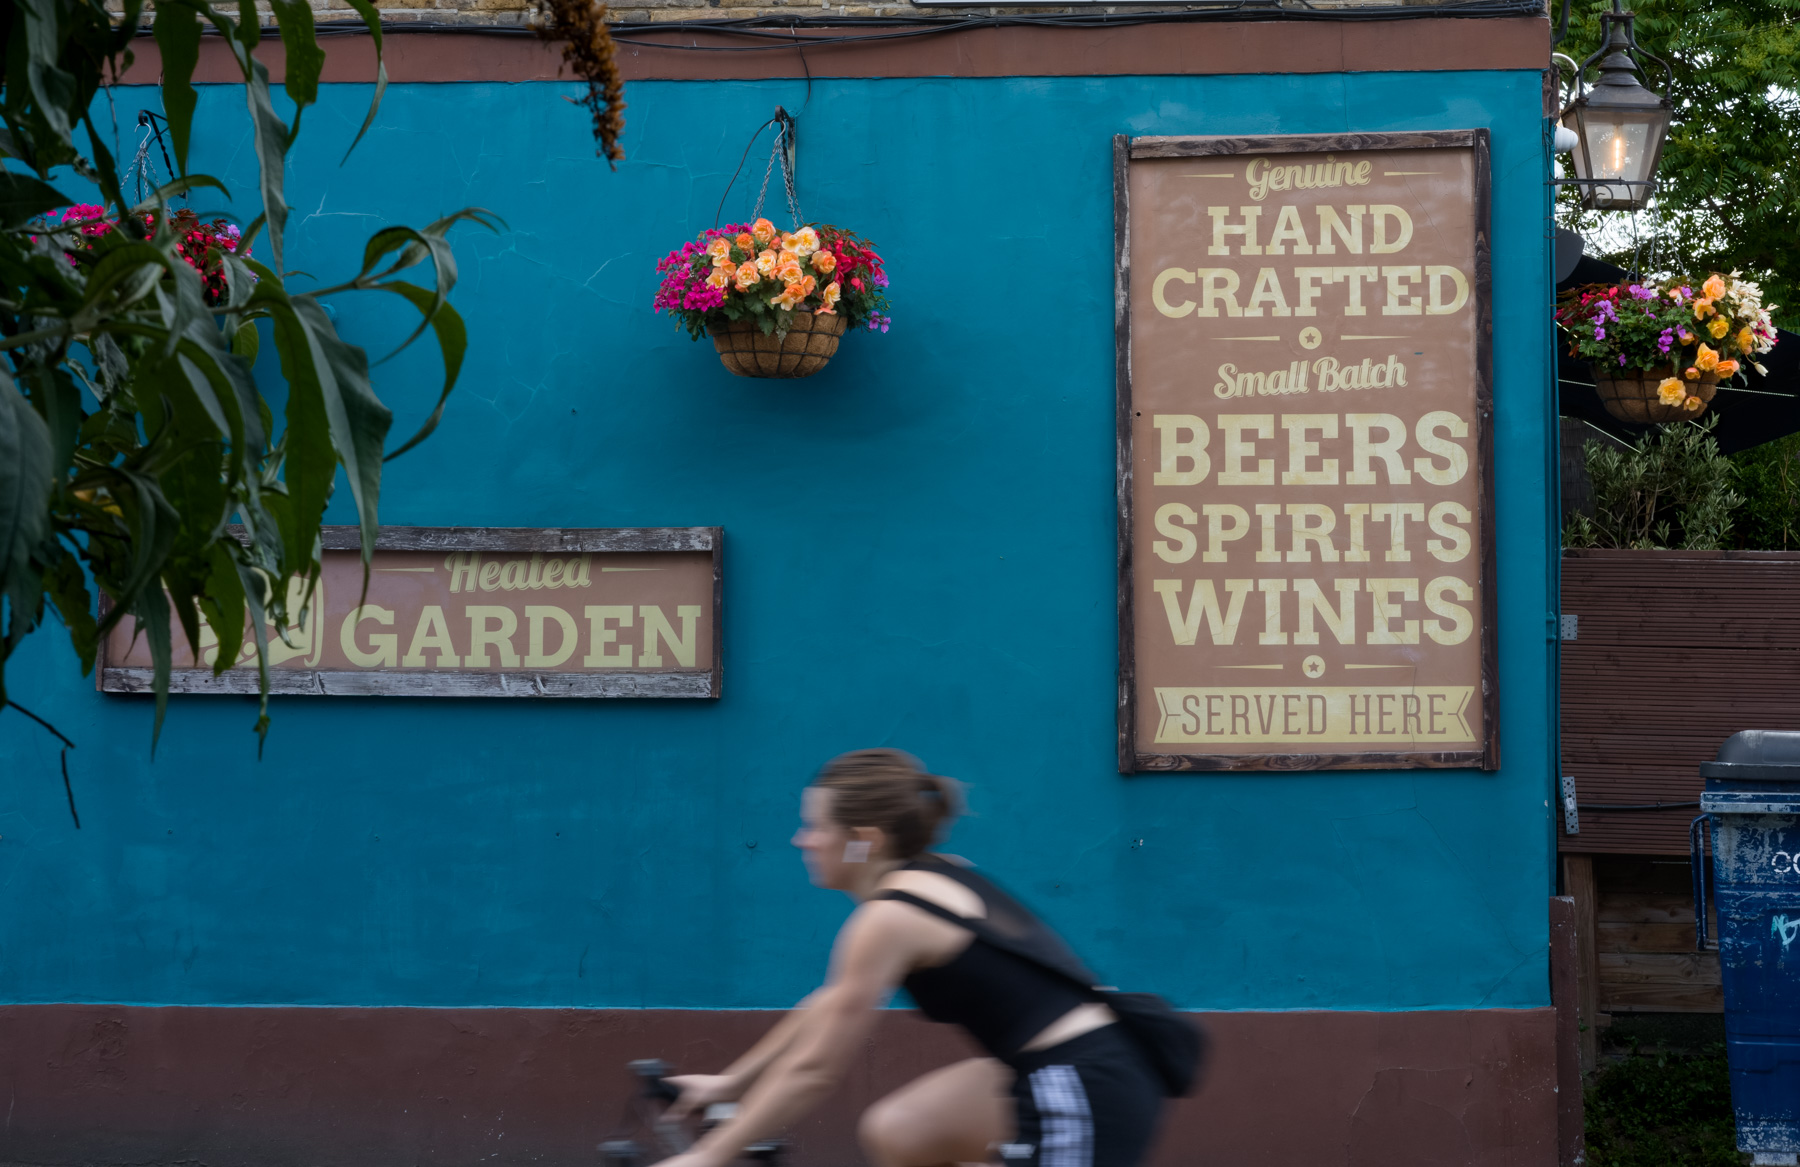
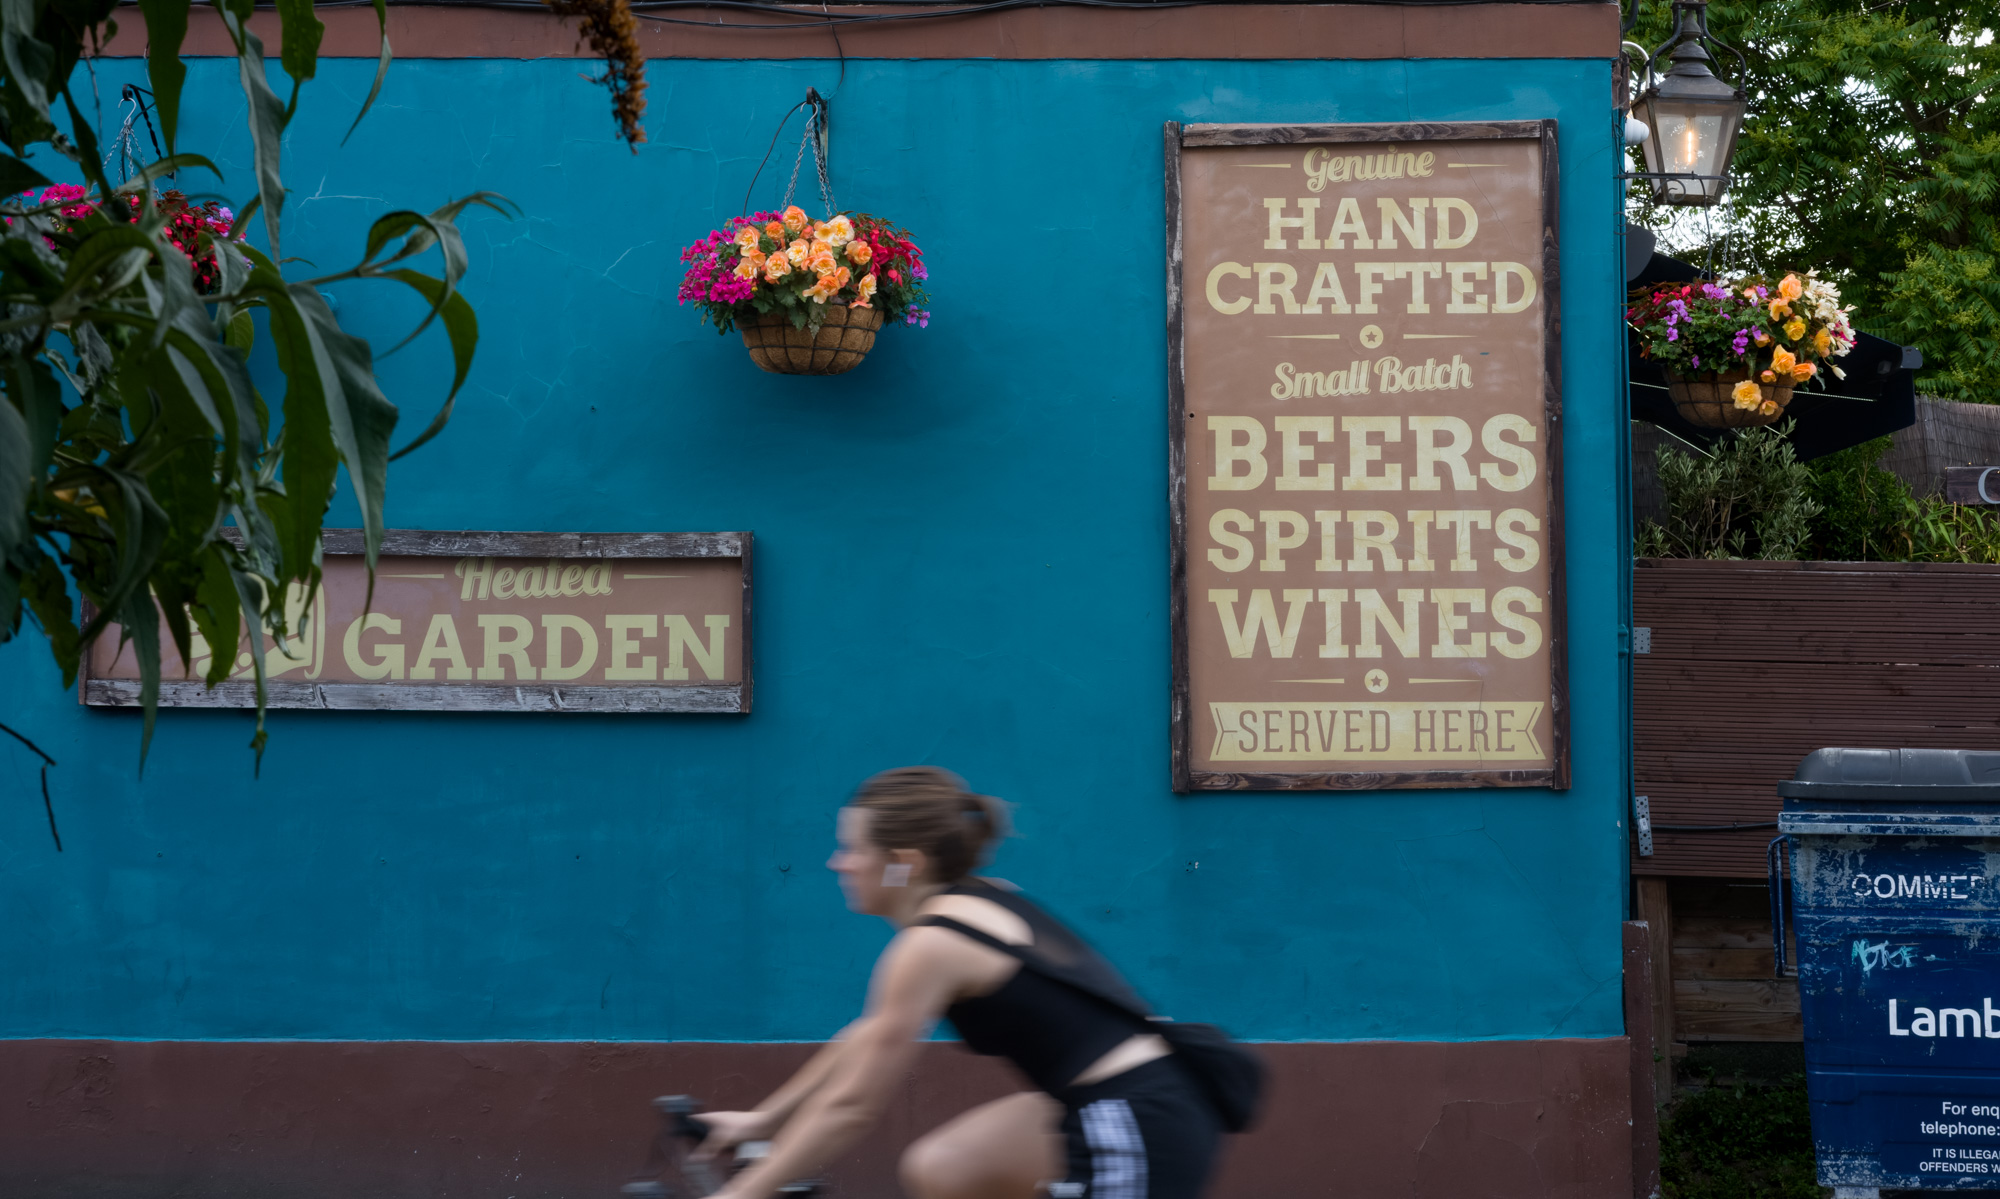
updated images

diff --git a/assets/js/gallery-data.js b/assets/js/gallery-data.js
@@ -138,7 +138,8 @@ const galleryItems = [
     height: 1725,
     alt: "Dog Watching the Sea",
     title: "Dog Watching the Sea",
-    description: "Silhouette of a dog gazing out through a window at the ocean view beyond.",
+    description:
+      "Silhouette of a dog gazing out through a window at the ocean view beyond.",
     camera: "Apple iPhone 13 Pro",
     lens: "1.5/5.7mm",
     fstop: "f/1.5",
@@ -152,7 +153,8 @@ const galleryItems = [
     height: 2300,
     alt: "Urban Street Art",
     title: "Urban Street Art",
-    description: "Weathered electrical box featuring street art of a child against a vibrant blue wall.",
+    description:
+      "Weathered electrical box featuring street art of a child against a vibrant blue wall.",
     camera: "Apple iPhone 13 Pro",
     lens: "1.5/5.7mm",
     fstop: "f/1.5",
@@ -166,7 +168,8 @@ const galleryItems = [
     height: 1294,
     alt: "Green Figurine",
     title: "Green Figurine",
-    description: "Minimalist green figurine displayed against a dark background with subtle lighting.",
+    description:
+      "Minimalist green figurine displayed against a dark background with subtle lighting.",
     camera: "Unknown Camera",
     lens: "Unknown Lens",
     fstop: "f/2.8",
@@ -180,7 +183,8 @@ const galleryItems = [
     height: 2300,
     alt: "Character Sketch",
     title: "Character Sketch",
-    description: "Simple line drawing of a rounded character on lined paper showing a playful design concept.",
+    description:
+      "Simple line drawing of a rounded character on lined paper showing a playful design concept.",
     camera: "Apple iPhone 11",
     lens: "1.8/4.2mm",
     fstop: "f/1.8",
@@ -194,7 +198,8 @@ const galleryItems = [
     height: 2300,
     alt: "Rainbow Over Chapel",
     title: "Rainbow Over Chapel",
-    description: "Stone chapel standing on a manicured lawn with a vibrant rainbow arching across the sky.",
+    description:
+      "Stone chapel standing on a manicured lawn with a vibrant rainbow arching across the sky.",
     camera: "Apple iPhone 11",
     lens: "1.8/4.2mm",
     fstop: "f/1.8",
@@ -208,7 +213,8 @@ const galleryItems = [
     height: 1294,
     alt: "Terrier Portrait",
     title: "Terrier Portrait",
-    description: "Close-up portrait of a terrier with expressive eyes and whiskers against a soft background.",
+    description:
+      "Close-up portrait of a terrier with expressive eyes and whiskers against a soft background.",
     camera: "SONY ILCE-6000",
     lens: "2.0/50.0mm",
     fstop: "f/2.0",
@@ -222,7 +228,8 @@ const galleryItems = [
     height: 1725,
     alt: "Garden Sanctuary",
     title: "Garden Sanctuary",
-    description: "Peaceful garden scene with a majestic tree and woven basket garden feature on manicured lawn.",
+    description:
+      "Peaceful garden scene with a majestic tree and woven basket garden feature on manicured lawn.",
     camera: "Apple iPhone 11",
     lens: "1.8/4.2mm",
     fstop: "f/1.8",
@@ -236,7 +243,8 @@ const galleryItems = [
     height: 1725,
     alt: "Coastal Companion",
     title: "Coastal Companion",
-    description: "Terrier dog sitting attentively on a bench with turquoise sea waters in the background.",
+    description:
+      "Terrier dog sitting attentively on a bench with turquoise sea waters in the background.",
     camera: "Apple iPhone 13 Pro",
     lens: "2.8/9.0mm",
     fstop: "f/2.8",
@@ -250,7 +258,8 @@ const galleryItems = [
     height: 1725,
     alt: "Cozy Canine",
     title: "Cozy Canine",
-    description: "Terrier peeking out from under a cream knitted blanket while resting on a blue sofa.",
+    description:
+      "Terrier peeking out from under a cream knitted blanket while resting on a blue sofa.",
     camera: "Apple iPhone 13 Pro",
     lens: "2.8/9.0mm",
     fstop: "f/2.8",
@@ -264,7 +273,8 @@ const galleryItems = [
     height: 2300,
     alt: "Playful Pup",
     title: "Playful Pup",
-    description: "Terrier holding a plush toy in its mouth, standing against a soft background with natural light.",
+    description:
+      "Terrier holding a plush toy in its mouth, standing against a soft background with natural light.",
     camera: "Apple iPhone 13 Pro",
     lens: "2.8/9.0mm",
     fstop: "f/2.8",
@@ -278,7 +288,8 @@ const galleryItems = [
     height: 1350,
     alt: "Park Trail",
     title: "Park Trail",
-    description: "Tranquil forest path with a dog resting in the shade under an oak tree.",
+    description:
+      "Tranquil forest path with a dog resting in the shade under an oak tree.",
     camera: "Hasselblad X2D 100C",
     lens: "4.0/55.0mm",
     fstop: "f/4.0",
@@ -292,7 +303,8 @@ const galleryItems = [
     height: 1350,
     alt: "Gelato Queue",
     title: "Gelato Queue",
-    description: "Busy artisanal gelato shop with a line of customers waiting outside on a summer day.",
+    description:
+      "Busy artisanal gelato shop with a line of customers waiting outside on a summer day.",
     camera: "Hasselblad X2D 100C",
     lens: "2.8/55.0mm",
     fstop: "f/2.8",
@@ -306,7 +318,8 @@ const galleryItems = [
     height: 1350,
     alt: "Skatepark Mural",
     title: "Skatepark Mural",
-    description: "Vibrant graffiti art decorating a skatepark wall with basketball courts visible in the background.",
+    description:
+      "Vibrant graffiti art decorating a skatepark wall with basketball courts visible in the background.",
     camera: "Hasselblad X2D 100C",
     lens: "8.0/55.0mm",
     fstop: "f/8.0",
@@ -320,7 +333,8 @@ const galleryItems = [
     height: 1350,
     alt: "Park Pup",
     title: "Park Pup",
-    description: "Happy terrier resting on a concrete ledge at a park with trees framing the background.",
+    description:
+      "Happy terrier resting on a concrete ledge at a park with trees framing the background.",
     camera: "Hasselblad X2D 100C",
     lens: "3.4/55.0mm",
     fstop: "f/3.4",
@@ -334,7 +348,8 @@ const galleryItems = [
     height: 1800,
     alt: "Victorian Bandstand",
     title: "Victorian Bandstand",
-    description: "Elegant Victorian-era bandstand with ornate dome and red columns in a public park.",
+    description:
+      "Elegant Victorian-era bandstand with ornate dome and red columns in a public park.",
     camera: "Hasselblad X2D 100C",
     lens: "3.4/55.0mm",
     fstop: "f/3.4",
@@ -348,7 +363,8 @@ const galleryItems = [
     height: 817,
     alt: "Summer Park Day",
     title: "Summer Park Day",
-    description: "Panoramic view of a crowded park on a summer day with people relaxing on the grass.",
+    description:
+      "Panoramic view of a crowded park on a summer day with people relaxing on the grass.",
     camera: "Hasselblad X2D 100C",
     lens: "2.5/55.0mm",
     fstop: "f/2.5",
@@ -362,7 +378,8 @@ const galleryItems = [
     height: 1350,
     alt: "Cyclist in Green",
     title: "Cyclist in Green",
-    description: "Lone cyclist passing through a verdant park with ancient oak trees creating a natural frame.",
+    description:
+      "Lone cyclist passing through a verdant park with ancient oak trees creating a natural frame.",
     camera: "Hasselblad X2D 100C",
     lens: "2.8/55.0mm",
     fstop: "f/2.8",
@@ -372,11 +389,12 @@ const galleryItems = [
   },
   {
     src: "assets/images/np2/np-38.jpg",
-    width: 1800,
-    height: 1167,
+    width: 2000,
+    height: 1199,
     alt: "Vibrant Pub Wall",
     title: "Vibrant Pub Wall",
-    description: "Cyclist passing a turquoise pub wall adorned with hanging flower baskets and vintage drink signs.",
+    description:
+      "Cyclist passing a turquoise pub wall adorned with hanging flower baskets and vintage drink signs.",
     camera: "Hasselblad X2D 100C",
     lens: "22.0/55.0mm",
     fstop: "f/22.0",
@@ -386,11 +404,12 @@ const galleryItems = [
   },
   {
     src: "assets/images/np2/np-39.jpg",
-    width: 1800,
-    height: 1642,
+    width: 1996,
+    height: 2000,
     alt: "Garden Flower Baskets",
     title: "Garden Flower Baskets",
-    description: "Colorful hanging flower baskets mounted on a bright blue wall with a rustic garden sign.",
+    description:
+      "Colorful hanging flower baskets mounted on a bright blue wall with a rustic garden sign.",
     camera: "Hasselblad X2D 100C",
     lens: "5.6/55.0mm",
     fstop: "f/5.6",
